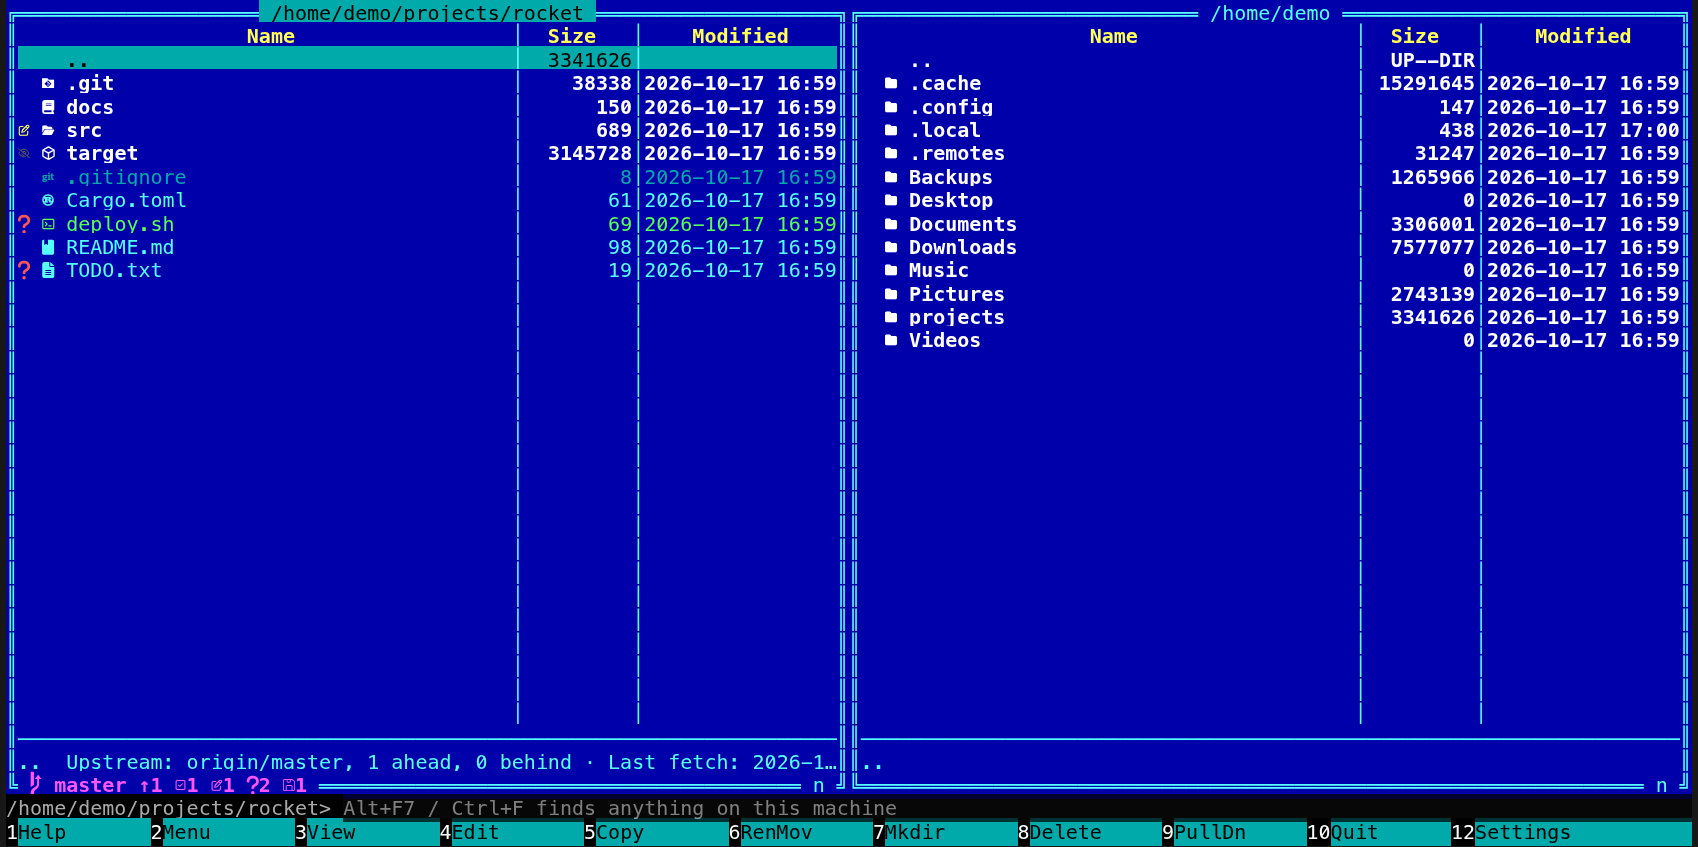
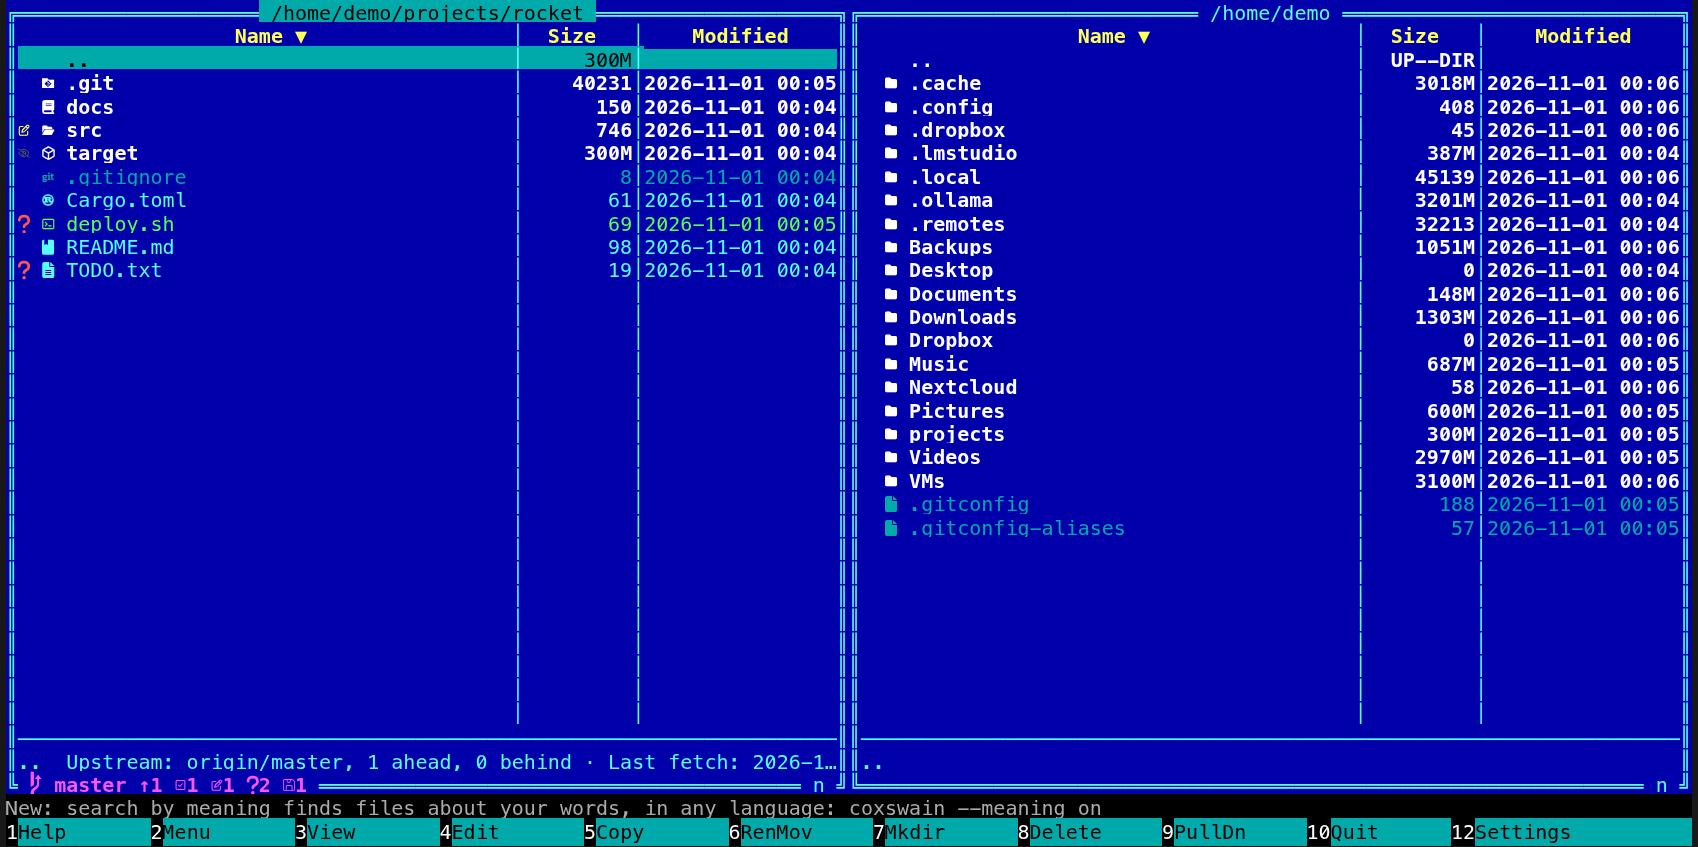
Terminal app: new pictures of the header click, tui-panels.png retaken

diff --git a/docs/panels/sorting.md b/docs/panels/sorting.md
@@ -8,6 +8,10 @@ clicking a column header. **Alt+.** shows or hides hidden files.
 ![The desktop app's details view of ~/projects: the Name header carries the sort arrow, folders come before files](../screenshots/gui-folder-sizes.png)
 *Sorted by name: the arrow next to* Name *marks the column and the direction.*
 
+![The terminal app after a click on the Size header: Size ▼ in the left panel's header, files and folders in order of size](../screenshots/tui-sort-size.png)
+![The terminal app after a second click on Size: the header reads Size ▲ and the order is reversed](../screenshots/tui-sort-reversed.png)
+*Terminal app: a click on* Size *sorts by it, a second click reverses it.*
+
 ## Contents
 
 - [How to use it](#how-to-use-it)
